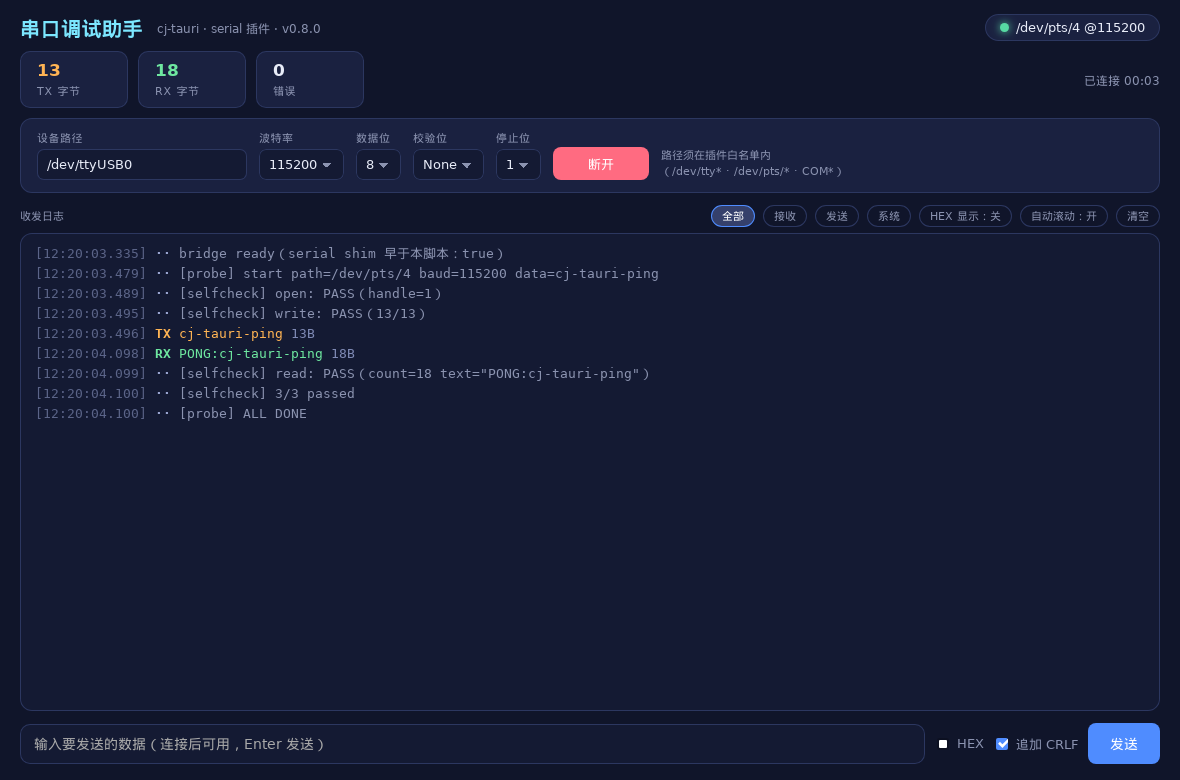
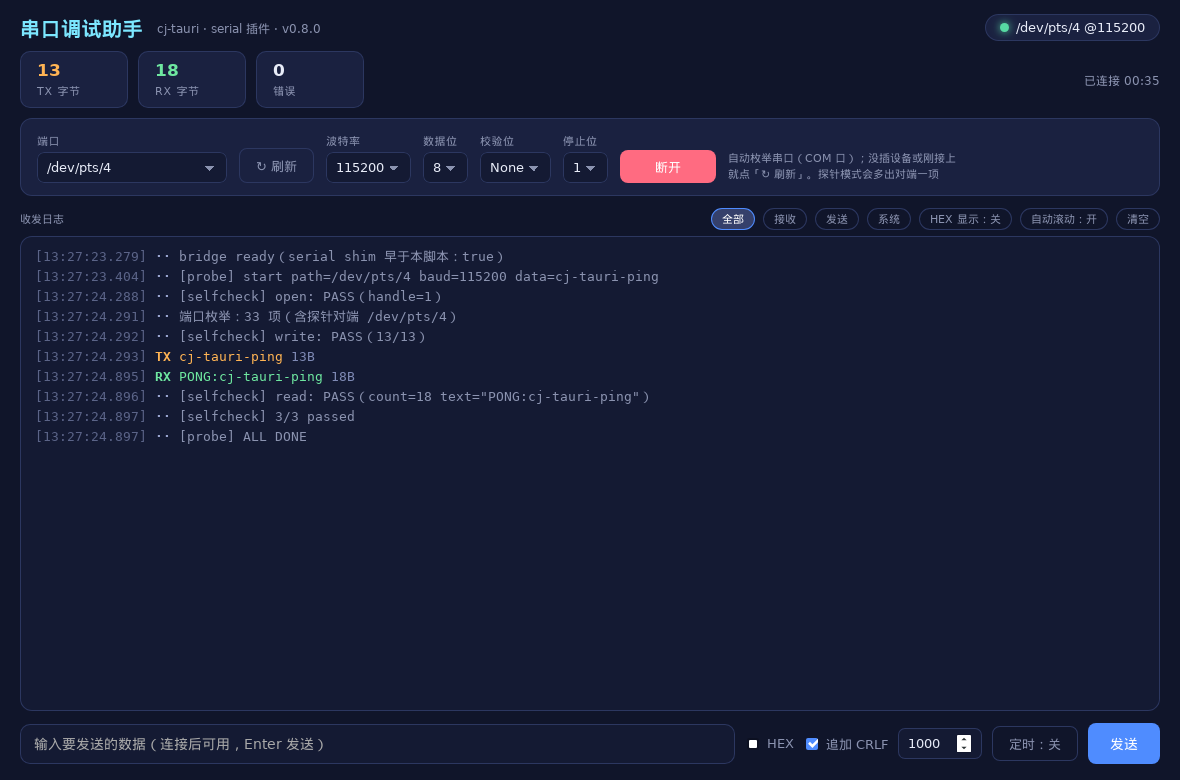
feat(serial): add port enumeration (serial:list) and a timer-send UI
serial:list enumerates local serial device nodes: /dev top level filtered by
device-class prefixes (ttyUSB/ttyACM/ttyS/ttyAMA/ttyPS/ttyTHS/ttyXRUSB/ttyV,
tty./cu.) plus /dev/serial/by-id and by-path scanned whole (udev links carry
neither prefix). Pseudo-terminals are excluded -- the probe's pty is allowed
by the open whitelist but is not a "local serial port", so it never shows in
the list; the probe page appends it explicitly for reproducibility. The
command joins the serial:readonly set: listing is read-only and selecting a
port precedes every connection. Unit suite 143 -> 144.

The serial-assistant UI now fills a port dropdown from serial:list (with a
refresh button) instead of a hand-typed path -- Windows users think in COM
ports, so pick-from-list is the habit to match. The send row gains a timed
send: interval number input (>= 50ms) plus an on/off toggle; empty input
skips the beat, disconnect stops the timer. run.sh asserts the dropdown
population (v3).

Language pitfall recorded in AGENTS.md §4: Cangjie `const` only accepts
compile-time constant expressions, so `const X: Array<String> = [...]` fails
with "expressions of type 'Array' are not constant" -- top-level `let` is the
tool for immutable collections.

Verified on the user's MobaXterm X11 display (localhost:10.0): probe mode
with QUIT=0 connected to the pty peer, self-check 3/3, dropdown showed 33
ports including the peer and preselected it; screenshot archived and the
[…]

Changed region(s): [[0.0, 0.1538, 0.5492, 0.5846], [0.1525, 0.1538, 0.9763, 0.3077], [0.6407, 0.9231, 0.9153, 0.9846]]

diff --git a/examples/serial-assistant/ui/index.html b/examples/serial-assistant/ui/index.html
@@ -65,11 +65,13 @@
   }
   .field { display: flex; flex-direction: column; gap: 4px; }
   .field label { font-size: 11px; color: var(--muted); letter-spacing: .5px; }
-  select, input[type="text"] {
+  select, input[type="text"], input[type="number"] {
     background: var(--panel-2); color: var(--ink); border: 1px solid var(--line);
     border-radius: 7px; padding: 7px 9px; font-size: 13px; outline: none;
   }
-  select:focus, input[type="text"]:focus { border-color: var(--accent); }
+  select:focus, input[type="text"]:focus, input[type="number"]:focus { border-color: var(--accent); }
+  #timerMs { width: 84px; }
+  #timerMs:disabled { opacity: .5; }
   /* WebKitGTK 会用原生 combo 的浅色样式盖掉上面的背景/文字色（实测白底浅字几乎不可读），
      只能去原生外观自绘：右侧画一个 CSS 三角当箭头 */
   select {
@@ -93,6 +95,7 @@
   #bConnect.open { background: var(--err); }
   button.ghost { background: transparent; border: 1px solid var(--line); color: var(--muted); }
   button.ghost:hover { color: var(--ink); border-color: var(--accent); }
+  button.ghost.sel { color: #fff; background: #35406b; border-color: var(--accent); }
 
   /* ── 日志区 ─────────────────────────────────────────── */
   #logwrap {
@@ -164,8 +167,12 @@
 
   <div id="params">
     <div class="field">
-      <label>设备路径</label>
-      <input type="text" id="path" value="/dev/ttyUSB0" spellcheck="false">
+      <label>端口</label>
+      <select id="port" style="min-width:190px"><option>枚举中…</option></select>
+    </div>
+    <div class="field">
+      <label>&nbsp;</label>
+      <button class="ghost" id="bRefresh">↻ 刷新</button>
     </div>
     <div class="field">
       <label>波特率</label>
@@ -197,7 +204,7 @@
     </div>
     <button id="bConnect">连接</button>
     <span class="hint" style="color:var(--muted);font-size:11px;line-height:1.5">
-      路径须在插件白名单内<br>（/dev/tty* · /dev/pts/* · COM*）
+      自动枚举串口（COM 口）；没插设备或刚接上<br>就点「↻ 刷新」。探针模式会多出对端一项
     </span>
   </div>
 
@@ -218,6 +225,8 @@
     <input type="text" id="sendText" placeholder="输入要发送的数据（连接后可用，Enter 发送）" disabled spellcheck="false">
     <label class="toggle"><input type="checkbox" id="hexMode">HEX</label>
     <label class="toggle"><input type="checkbox" id="appendCRLF" checked>追加 CRLF</label>
+    <input type="number" id="timerMs" value="1000" min="50" step="50" title="定时发送间隔（毫秒）" disabled>
+    <button class="ghost" id="bTimer" disabled>定时：关</button>
     <button id="bSend" disabled>发送</button>
   </div>
 
@@ -326,6 +335,14 @@
     $('statusText').textContent = label;
     $('sendText').disabled = !on;
     $('bSend').disabled = !on;
+    $('timerMs').disabled = !on;
+    $('bTimer').disabled = !on;
+    if (!on && timerId) {           // 断开（或探针收尾）时顺手停掉定时发送
+      clearInterval(timerId);
+      timerId = 0;
+      $('bTimer').textContent = '定时：关';
+      $('bTimer').className = 'ghost';
+    }
   }
 
   var uptimeTimer = 0;
@@ -339,13 +356,13 @@
 
   function connect() {
     var args = {
-      path: $('path').value.replace(/^\s+|\s+$/g, ''),
+      path: $('port').value,
       baud: parseInt($('baud').value, 10),
       dataBits: parseInt($('dataBits').value, 10),
       parity: $('parity').value,
       stopBits: parseInt($('stopBits').value, 10)
     };
-    if (!args.path) { addLine('err', 'serial:open => 请填设备路径'); bumpErr(); return; }
+    if (!args.path) { addLine('err', 'serial:open => 请先选择端口（没有就点「↻ 刷新」）'); bumpErr(); return; }
     setConnected(false, '连接中…');
     addLine('sys', 'serial:open ' + args.path + ' @' + args.baud + ' ' + args.dataBits +
       args.parity.charAt(0).toUpperCase() + args.stopBits);
@@ -507,16 +524,81 @@
     setTimeout(function () { waitForBridge(cb); }, 50);
   }
 
+  /* ── 端口枚举：填「端口」下拉（探针模式把对端也列为首选项） ── */
+  function refreshPorts(preferred) {
+    var sel = $('port');
+    return ser().list().then(function (r) {
+      var ports = (r && r.ports) ? r.ports : [];
+      var probePort = (window.__SERIAL_PROBE__ && window.__SERIAL_PROBE__.path) || '';
+      var added = false;
+      if (probePort && ports.indexOf(probePort) < 0) {
+        ports = ports.concat([probePort]);   // pty 对端不算「本机串口」，探针时补进来便于复现
+        added = true;
+      }
+      sel.textContent = '';
+      if (!ports.length) {
+        var o = document.createElement('option');
+        o.value = '';
+        o.textContent = '未发现串口（点 ↻ 刷新）';
+        sel.appendChild(o);
+      } else {
+        for (var i = 0; i < ports.length; i++) {
+          var opt = document.createElement('option');
+          opt.value = ports[i];
+          opt.textContent = ports[i];
+          sel.appendChild(opt);
+        }
+        if (preferred && ports.indexOf(preferred) >= 0) { sel.value = preferred; }
+      }
+      addLine('sys', '端口枚举：' + ports.length + ' 项' + (added ? '（含探针对端 ' + probePort + '）' : ''));
+    }).catch(function (e) {
+      sel.textContent = '';
+      var o = document.createElement('option');
+      o.value = '';
+      o.textContent = '枚举失败';
+      sel.appendChild(o);
+      addLine('err', 'serial:list FAIL => ' + e.message);
+      bumpErr();
+    });
+  }
+
+  /* ── 定时发送：按发送框当前内容与 HEX/CRLF 开关周期性 send()，框空跳过该拍 ── */
+  var timerId = 0;
+  $('bTimer').onclick = function () {
+    if (timerId) {
+      clearInterval(timerId);
+      timerId = 0;
+      addLine('sys', '定时发送已停');
+    } else {
+      var ms = parseInt($('timerMs').value, 10);
+      if (!(ms >= 50)) {
+        addLine('err', '定时发送：间隔至少 50ms');
+        bumpErr();
+        return;
+      }
+      timerId = setInterval(function () {
+        if ($('sendText').value !== '') { send(); }
+      }, ms);
+      addLine('sys', '定时发送已启动：每 ' + ms + 'ms');
+    }
+    $('bTimer').textContent = '定时：' + (timerId ? '开' : '关');
+    $('bTimer').className = 'ghost' + (timerId ? ' sel' : '');
+    $('timerMs').disabled = !!timerId || !state.connected;
+  };
+  $('bRefresh').onclick = function () { refreshPorts(); };
+
   waitForBridge(function () {
     addLine('sys', 'bridge ready（serial shim 早于本脚本：' +
       !!(window.__CJ_TAURI__ && window.__CJ_TAURI__.serial) + '）');
     window.__CJ_TAURI__.invoke('system:version').then(function (v) {
       if (v && v.version) { $('ver').textContent = 'v' + v.version; }
     }).catch(function () { $('ver').textContent = ''; });
-    if (window.__SERIAL_PROBE__) {
-      runProbe(window.__SERIAL_PROBE__);
+    var probe = window.__SERIAL_PROBE__ || null;
+    refreshPorts(probe ? probe.path : null);
+    if (probe) {
+      runProbe(probe);
     } else {
-      addLine('sys', '（手动模式：填设备路径 → 连接 → 收发。路径须在插件白名单内）');
+      addLine('sys', '（手动模式：选端口 → 连接 → 收发。没插设备或刚接上就点「↻ 刷新」）');
     }
   });
 }());

diff --git a/docs/进度记录.md b/docs/进度记录.md
@@ -22,6 +22,7 @@
 单测总数 68 → **71**；Windows 侧未实机（仅编译校验） |
 | 插件 JS 注入通道 v2（宿主预执行脚本） | **已落地并 Linux 实机验证（2026-10-02）**：`WebViewHost.addInitScript()`（须在 `start()` 之前注册）+ 两平台 C 桥 `cj_bridge_add_init_script`（同名同签名，document-start 注入、排在 `BRIDGE_JS` 之后）；插件 shim 由 `pluginInitScripts()` 收成「一个插件一段」，`app.run` / `app.runUrl` 共用这条通道——**v1「`runUrl` 拿不到 shim」的局限消失**，v1 的 `assemblePluginJs` / `injectPluginJs` 已删除。单测仍 **71**（4 条注入用例换成 4 条脚本收集用例）。契约见 `AGENTS.md` §2，设计见 `docs/RFC-插件体系.md` §5.4 / §8 第 4 条 |
 | **官方 `serial` 插件（串口读写，2026-10-06，§3.2.16）** | **代码 + C 桥 + 单测 + 示例 + Linux 实机验证完成**：`serial:open` / `serial:read` / `serial:write` / `serial:close`（`src/plugin_serial.cj` + `src/serial_bridge.cj` FFI + C 桥五个同名导出 `cj_bridge_serial_{open,read,write,close,last_error}`，桥产物 22 → **27** 个 `cj_bridge_*`），命名集 `serial:readonly`（open/read/close）与 `serial:default`（另含 write），示例 `examples/plugin-serial`；单测 132 → **143**（新增 11 条串口用例），C 桩自检 99 → **136**。**分层照契约**：路径白名单 + 参数校验在 core 侧（只放行设备节点类前缀、含 `..` 一律拒），句柄表 + termios 在平台层（Linux 实现 / Windows **同名桩**），上层零平台分叉；**零第三方依赖**（不链 `libserialport`，与 MIT 口径一致，无需登记第三方许可证）。实机证据（Linux/WebKitGTK/Xvfb + python3 `pty` 虚拟串口对，`bash examples/plugin-serial/run.sh`）：`serial:open => handle=1 path=/dev/pts/4 baud=115200` → `serial:write => written=13/13` → `serial:read => count=18 hex=504f…6e67 text="PONG:cj-tauri-ping"` → `serial:close => true`，桥侧 `serial termios: … fd=33` / `serial open: handle=1` / `serial close: handle=1`；**写方向的凭证在应用之外**（对端 `[peer] rx=13 bytes, replied 18 bytes` + 落盘 `/tmp/plugin-serial-probe.log.rx`）。三轮 `exit=0`；截图 `/tmp/cj-tauri-shots/plugin-serial-linux-01.png` 已入库 `docs/images/example-plugin-serial.png`（INDEX 有条目）。**如实记**：首轮曾以 134 收尾（`schd-worker` 收到 SIGABRT，在 `after run` 之后），随后三轮 `run.sh` 与一轮 gdb（正常退出）均不复现——签名同 §一 记过的 Linux 退出期偶发，**不判因**；Windows 侧未实机 |
+| **串口助手 v2：`serial:list` + 端口下拉 + 定时发送（2026-10-09，§3.2.17 续）** | **框架 + 示例同轮升级，实机验收完成**：插件加 `serial:list`（枚举 `/dev` 顶层设备类前缀 + `/dev/serial/by-{id,path}/` 整目录，伪终端不进列表；归入 `serial:readonly` 集），单测 143 → **144**；助手 UI 把设备路径手输换成**端口下拉自动枚举**（探针对端额外补进下拉）+「↻ 刷新」，发送区加**定时发送**（间隔 ≥50ms、框空跳拍、断开自动停）。实测又踩一条语言坑已进 `AGENTS.md` §4：**仓颉 `const` 只收编译期常量，`Array` 字面量不合法**（`const X: Array<String> = [...]` 编译不过，顶层要用 `let`）。用户 MobaXterm X11（`localhost:10.0`，shell 里陈旧的 `:15.0` 连不上）实机验收：探针 `QUIT=0` 自动连对端自检 3/3、下拉 33 项含对端且自动选中，截图入库覆盖 `docs/images/example-serial-assistant.png`；`run.sh` v3 断言加「端口枚举」两条、`exit=0` 全绿 |
 | **串口调试助手示例 `examples/serial-assistant`（2026-10-09，§3.2.17）** | **脚手架 + serial 插件拼出的业务向工具，Linux 实机验证完成**：`cj-tauri create --template app` 起骨架、一行 `.plugin(SerialPlugin())` 接入，页面独立在 `ui/index.html`（与 movie 同法，避开三引号两坑）；参数面板（设备/波特率/数据位/校验/停止位）+ TX/RX 分色收发日志（时间戳/字节数/HEX 显示/按方向过滤）+ 计数与连接徽标 + 发送区（HEX、追加 CRLF、Enter 直发）。探针模式复用 plugin-serial 形状（`CJ_SERIAL_PROBE_*` 注入，页面自动跑一轮自检经 `report` 回传 stderr），`bash run.sh` 自带 pty 对端与断言，六轮探针自检全过、截图入库 `docs/images/example-serial-assistant.png`。**新踩一条界面坑已进 `AGENTS.md` §4**：WebKitGTK 的 `<select>` 被原生 combo 浅色样式盖掉页面配色（深色页白底浅字不可读），`-webkit-appearance:none` 自绘修复。**如实记**：6 轮里 4 轮进程在 `after run` **之后** 134（main 线程 SIGABRT）——同日对照跑一行未动的 `examples/plugin-serial` 也崩，属既有 Linux 退出期偶发频率升高，与示例代码无关，不判因；Windows 侧串口是桩（未实机，故本示例暂无 `run.bat`） |
 | 插件清单（机器可读） | **已落地并 Linux 实机验证（2026-10-02）**：框架侧 `describePluginsJson(plugins): JsonValue`（**不动 `Plugin` 接口**），形态 `[{name, commands, events, permissions, hasShim}]`，命令 / 事件 / 权限键按字典序（输出稳定、可 diff）；消费端 `cj-tauri info [--json]` 也已接入——走 `CJ_TAURI_MANIFEST` 通道让应用「跑到装配完成但不建窗口」一次（无显示环境可用），CLI 侧两道守卫防旧产物真开窗口。单测 74 → **78**；决策见 `docs/RFC-插件体系.md` §8 第 7 条，取证见 §3.1 |
 | IPC 通信机制（技术文档 + 性能探针） | **已完成（2026-10-02）**：`docs/IPC-通信机制.md` 写清三层结构（页面 JS → 宿主桥 C → 仓颉 hub）/ 四种报文 + 一条控制消息 / 一次 invoke 的十步时序 / 两平台差异 / **实测性能** / 与 WebSocket 的对照 / 已知限制与优化空间；配套可复现探针 `examples/ipc-bench`（4 组基准，结果打 stderr）与对照脚本 `scripts/bench-ws-vs-tcp.js`（零依赖）。**本轮优化与实测**（同机、同一份应用二进制只换 C 桥，各 3 轮取中位）：管线化 **6024 → 11905 ops/s**（≈2.0×）、事件 **0.105 → 0.04 ms/条**（≈2.6×）、顺序往返 386.5 → 390.5 µs（+1%，噪声内）、1 MB 回显 49.5 → 51.8 MB/s（噪声内）；改动后单次最全样本：顺序往返 **390.5 µs/次**、未授权同步拒绝 **349 µs/次**、1 MB 回显 **19.3 ms（51.8 MB/s）**。同机 loopback **WebSocket 0.151 ms / 裸 TCP 0.077 ms**——同处 0.1–0.5 ms 一档，换传输方式不是数量级差异（取证见 §3.1 新增行）。**已修（P0 三条 + 本轮 emit）**：Linux 入站日志、Linux 回投失败可见（`run js failed`）、页面伪造回投面（改直派 `_dispatch`）；**前端 `emit()` 已打通**（JS → 仓颉 的事件落到 `app.listenEvent` 注册的监听器，未授权回 `reject("event not allowed: …")`，事件报文带 `window` 字段、桥按 label 过滤）、**带 `id` 的非法报文现在回 reject**（前端不再永久 pending）。**仍存在的已知限制**（文档 §7 已如实记）：读不出 `id` 的非法报文只能打 stderr、事件不做跨窗口广播（单窗口下有意，协议已就位）、无超时 / 取消 / 背压 / 回投队列上限 |

diff --git a/CHANGELOG.md b/CHANGELOG.md
@@ -16,8 +16,11 @@
 
 ### Added
 
-- **官方 `serial` 插件（串口读写）**：`serial:open` / `serial:read` / `serial:write` / `serial:close`
-  四条命令，前端 `window.__CJ_TAURI__.serial.*`（插件 shim 经宿主**预执行脚本**通道注入，页面第一行可读）。
+- **官方 `serial` 插件（串口读写）**：`serial:list` / `serial:open` / `serial:read` / `serial:write` /
+  `serial:close` 五条命令，前端 `window.__CJ_TAURI__.serial.*`（插件 shim 经宿主**预执行脚本**通道注入，页面第一行可读）。
+  `list` 枚举本机串口设备节点（`/dev` 顶层按设备类前缀收 + `/dev/serial/by-{id,path}/` 整目录收录，
+  伪终端不算「本机串口」不进列表），返回 `{ ports: ["…"] }`、按字典序——页面拿它填「端口」下拉；
+  归入 `serial:readonly` 集（枚举是只读操作，且连接前的「选端口」离不开它）。
   设备参数在**打开时定稿**：`open { path, baud, dataBits?, parity?, stopBits? }` →
   `{ handle, path, baud, dataBits, parity, stopBits }`；之后 `read { handle, maxBytes?, timeoutMs? }` →
   `{ count, hex, text? }`（**超时无数据返回 `count=0`，不算错误**；不是合法 UTF-8 的二进制帧只给 `hex`）、
@@ -41,16 +44,18 @@
   单元测试 132 → **143**（新增 11 条串口用例），C 桥桩自检 **136/136**。
   **Windows 侧目前只有同名桩**（未实机）。
 - **串口调试助手示例 `examples/serial-assistant`**：`cj-tauri create` 脚手架（app 模板）+ 官方 `serial`
-  插件拼出的**业务向小工具**——参数面板（设备 / 波特率 / 数据位 / 校验 / 停止位）、收发日志（TX/RX
-  分色、时间戳、字节数、HEX 显示开关、按方向过滤）、TX/RX/错误计数、连接态徽标与计时；发送区支持
-  HEX 与「追加 CRLF」、Enter 直发。页面独立在 `ui/index.html`（与 movie 同一套做法，避开三引号字符串
-  的两个坑）；探针模式照 plugin-serial（`CJ_SERIAL_PROBE_PATH` 注入配置，页面自动跑一轮
-  open→write→read 自检并经 `report` 回传 stderr），`bash run.sh` 自带 pty 虚拟对端与断言。
-  实测顺手抓到一条界面坑：**WebKitGTK 的 `<select>` 会被原生 combo 的浅色样式盖掉页面配色**
-  （深色页里白底浅字几乎不可读），已用 `-webkit-appearance:none` 自绘修复（坑已记 `AGENTS.md` §4）。
-  Linux 实机六轮探针自检全过；**如实记**：6 轮里 4 轮进程在 `after run` **之后**以 134 收尾——同日
-  对照跑一行未动的 `examples/plugin-serial` 也崩，属既有 Linux 退出期偶发频率升高，与示例代码无关
-  （不判因，见进度记录 §3.2.17）。
+  插件拼出的**业务向小工具**——参数面板（**端口下拉自动枚举** + ↻ 刷新，/ 波特率 / 数据位 / 校验 / 停止位）、
+  收发日志（TX/RX 分色、时间戳、字节数、HEX 显示开关、按方向过滤）、TX/RX/错误计数、连接态徽标与计时；
+  发送区支持 HEX 与「追加 CRLF」、**定时发送**（间隔 ≥50ms 可调，框空跳拍，断开自动停）、Enter 直发。
+  页面独立在 `ui/index.html`（与 movie 同一套做法，避开三引号字符串的两个坑）；探针模式照 plugin-serial
+  （`CJ_SERIAL_PROBE_PATH` 注入配置，页面自动跑一轮 open→write→read 自检并经 `report` 回传 stderr，
+  对端端口会补进下拉），`bash run.sh` 自带 pty 虚拟对端与断言。
+  实测抓到两条坑（均已记 `AGENTS.md` §4）：**WebKitGTK 的 `<select>` 会被原生 combo 的浅色样式盖掉页面配色**
+  （已用 `-webkit-appearance:none` 自绘修复）；**仓颉 `const` 只收编译期常量、`Array` 字面量不合法**
+  （顶层可变量要用 `let`）。
+  Linux 实机探针自检多轮全过（v3 起断言含「端口枚举」两条）；**如实记**：期间多轮进程在 `after run`
+  **之后**以 134 收尾——同日对照跑一行未动的 `examples/plugin-serial` 也崩，属既有 Linux 退出期偶发
+  频率升高，与示例代码无关（不判因，见进度记录 §3.2.17）。
 
 ## [0.8.0] - 2026-10-08
 

diff --git a/docs/使用文档.md b/docs/使用文档.md
@@ -496,6 +496,7 @@ let app = TauriApp()
 
 | 命令 | 参数 | 返回 |
 |---|---|---|
+| `serial:list` | 无 | `{ ports: ["/dev/ttyUSB0", …] }`（字典序；伪终端不进列表） |
 | `serial:open` | `{ path, baud, dataBits?, parity?, stopBits? }` | `{ handle, path, baud, dataBits, parity, stopBits }` |
 | `serial:read` | `{ handle, maxBytes?, timeoutMs? }` | `{ count, hex, text? }` |
 | `serial:write` | `{ handle, data, encoding?, timeoutMs? }` | `{ written, bytes }` |
@@ -510,16 +511,19 @@ none|odd|even）/ `stopBits`（1|2），越界一律**拒**并给一句可读原
 文本才附带 `text`（二进制帧只给 `hex`，不硬塞坏字符串）。`maxBytes` 默认 256、上限 4096，`timeoutMs`
 默认 200 ms、上限 60000。**`write` 单次上限 4096 字节**：`encoding` 收 `"utf8"`（默认）或 `"hex"`
 （偶数长度、只含 `0-9a-f`，写二进制帧用它），返回 `written` 与实际字节数 `bytes`——两者不等就是没写完。
-命名权限集 `serial:readonly`（`open` + `read` + `close`）与 `serial:default`（另含 `write`）：
-**只想读设备就别引用 `default`**，写能力不会被顺带打开。
+命名权限集 `serial:readonly`（`list` + `open` + `read` + `close`）与 `serial:default`（另含 `write`）：
+**只想读设备就别引用 `default`**，写能力不会被顺带打开。`list` 归 readonly：枚举是只读操作，
+连接前的「选端口」离不开它。
 
 平台现状如实记：**Linux（termios）已实机验证**，Windows 侧目前只有**同名桩**（导出名与 Linux 一致，
 换平台不用改上层调用点，但还不能真开串口）。
 
-前端：`window.__CJ_TAURI__.serial.open({ path: "/dev/ttyUSB0", baud: 115200 })`。
-可跑样例 `examples/plugin-serial/`——`bash run.sh` 用 python3 的 `pty` 造一对**虚拟串口**（不需要真串口硬件，
-也不需要 `socat`），跑 open → write → 对端回包 → read → close 闭环，断言只看日志效果；写方向的凭证在
-**应用进程之外**（对端日志 `[peer] rx=13 bytes, replied 18 bytes` 与落盘文件）。
+前端：`window.__CJ_TAURI__.serial.list().then(r => fillPortDropdown(r.ports))`。
+可跑样例 `examples/serial-assistant/`——**串口调试助手**：端口下拉自动枚举（`serial:list` + ↻ 刷新）、
+收发日志（TX/RX 分色、HEX 显示、按方向过滤）、计数与连接态、定时发送；
+`bash run.sh` 用 python3 的 `pty` 造一对**虚拟串口**（不需要真串口硬件，也不需要 `socat`），
+探针自动跑一轮收发自检，断言只看日志效果；写方向的凭证在**应用进程之外**
+（对端日志 `[peer] rx=13 bytes, replied 18 bytes` 与落盘文件）。
 
 前端直接用插件命名空间（页面脚本第一行就能读到，原因见下面第 3 条）：
 

diff --git a/AGENTS.md b/AGENTS.md
@@ -148,6 +148,9 @@
   注意教训仍在：**「日志里没有错误行」不等于「命令成功了」**——页面没接 `catch` 时失败只在页面上可见，
   示例/插件仍应把 reject 也回投（`report`），别把「没抓到 reject」读成「成功」
   （打字练习的 `score:save` 全废十几轮就是这么被抓到的）。
+- **仓颉 `const` 只收「编译期常量表达式」：`const X: Array<String> = ["a","b"]` 编译不过**
+  （`expressions of type 'Array' are not constant`；实测 2026-10-09，`serial:list` 那轮）。
+  顶层不可变集合一律用 `let`（全局 `let` 就是不可变量）；真要编译期常量得上 `VArray<T, N>`（值数组）。
 - **`#` 不是注释符**：Cangjie 的 `#` 是 raw string 前缀（`#"..."#`），拿它写行内注释会让词法分析器
   去找 raw string 的收尾，报的是 `error: expected '#' or '"' in raw string, found ' '`——**报错位置指向
   注释正文的第一个字符**，看着像语法错误、其实是注释写法错。行注释一律用 `//`。
